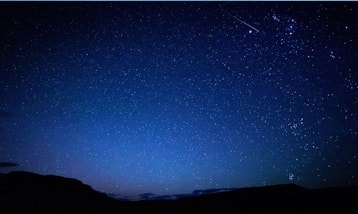
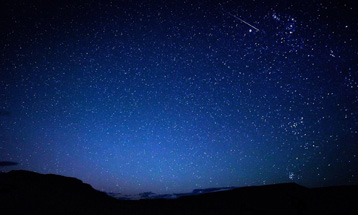
sistemato il cielo (pioggia inclusa). aggiunti effetti atmosferici. fix vari su pulsanti vari. avanzamento output importante.

diff --git a/client_v2/src/js/modules/client.js b/client_v2/src/js/modules/client.js
@@ -139,6 +139,40 @@ export default class TgGui {
         this.scrollbar = {
             output: null
         };
+
+        this.equip_positions_by_name = {
+
+            "r_finger":"Al dito destro",
+            "l_finger":"Al dito sinistro",
+            "neck":"Al collo",
+            "body":"Sul corpo",
+            "head":"In testa",
+            "legs":"Sulle gambe",
+            "feet":"Ai piedi",
+            "hands":"Sulle mani",
+            "arms":"Sulle braccia",
+            "around":"Attorno al corpo",
+            "waist":"In vita",
+            "r_wrist":"Al polso destro",
+            "l_wrist":"Al polso sinistro",
+            "r_hand":"Nella mano destra",
+            "l_hand":"Nella mano sinistra",
+            "back":"Sulla schiena",
+            "r_ear":"All'orecchio destro",
+            "l_ear":"All'orecchio sinistro",
+            "eyes":"Sugli occhi",
+            "sheath":"Nel fodero",
+            "belt":"Alla cintura",
+            "over":"A tracolla",
+            "r_shoulder":"Sulla spalla destra",
+            "l_shoulder":"Sulla spalla sinistra",
+            "tied":"Imprigionato"
+        };
+        
+        this.equip_positions_by_num = [''].concat($.map(this.equip_positions_by_name, function(v) {
+            return v;
+        }));
+
         
 
         /* Debug */
@@ -664,7 +698,7 @@ export default class TgGui {
         msg = msg.replace(/&!page\{[\s\S]*?\}!/gm, function (p) {
             let page_parse = $.parseJSON(p.slice(6, -1)); /* .replace(/\n/gm,' ') */
             // return addFrameStyle(addBannerStyle(p.title) + '<div class="text">' + p.text.replace(/\n/gm, '<br>') + '</div>');
-            return renderGenericPage(page_parse)
+            return _.renderGenericPage(page_parse)
         });
 
         // Generic table (title, head, data)
@@ -884,7 +918,8 @@ export default class TgGui {
         } else {
             //TODO: Page parse generic 
             console.log('!page todo');
-        }
+        };
+        return '';
     }
 
     renderMob(icon, condprc, count, mrn, desc, addclass) {
@@ -1042,7 +1077,7 @@ export default class TgGui {
     }
 
     cleanImageContainer(cont) {
-        cont.slideUp('fast');
+        $(cont).slideUp('fast');
     }
 
     /* *****************************************************************************
@@ -1250,14 +1285,14 @@ export default class TgGui {
                 res += '<div class="room"><div class="lts"></div>'+info.title+'<div class="rts"></div></div>';
             }
             let title = 'div class="tg-extra-title">' + info.title + '</div>';
-            if(wtab == ctab) {
+            /*  if(wtab == ctab) {
                 $('extratitle').text(title);
-            }
+            }*/
         }
 
         /* Set Image */
         if(info.image) {
-            _.showImage($('#detailimage', cont), info.image);
+            _.showImage($('#detailimage'), info.image);
         }
         else {
             _.cleanImageContainer('.tg-detailimage');
@@ -1286,18 +1321,22 @@ export default class TgGui {
         if (info.action) {
             textarea += '<div class="details-inner">' + info.action + '</div>';
         }
+        /* Print Title/Name */
+        if(info.title) {
+            textarea += '<div class="out-title">' + info.title + '</div>'
+        }
         /* Print description */
         if (info.desc) {
             textarea += '<div class="out-description">';
             if (info.desc.base) {
                 if (type == 'room') {
                     _.last_room_desc = _.formatText(info.desc.base, 'out-descbase');
-                    textarea += _.formatText(info.desc.base, 'out-descbase');
                 }
-            } else if (info.desc.repeatlast && _.last_room_desc) {
+                textarea += _.formatText(info.desc.base, 'out-descbase');
+            } 
+            else if (info.desc.repeatlast && _.last_room_desc) {
                 textarea += _.last_room_desc;
             }
-            textarea += '</div>';
 
             if (info.desc.details) {
                 textarea += _.formatText(info.desc.details, 'out-charsubdetail tg-yellow d-block');
@@ -1306,6 +1345,9 @@ export default class TgGui {
             if (info.desc.equip) {
                 textarea += _.formatText(info.desc.equip, 'out-charsubdetail tg-green d-block');
             }
+
+            textarea += '</div>';
+
         }
         if (_.client_options.secondoutput) {
             /* Print Persons List */
@@ -1413,8 +1455,8 @@ export default class TgGui {
                 /* print header triggerable element */
                 txt += '<div class="element'+ grp_attribute +'" ' + data_mrn + '>';
                     // mob/obj icon
-                    txt += _.renderIcon(l.icon, l.mrn ? l.mrn[0] : null, cont_type, l.cntnum, null, 'interact '+type);
-                    txt += '<div class="desc">' + _.decoratedDescription(l.condprc, l.mvprc, l.wgt, l.sz ? l.sz : 1, (l.eq ? '<b>' + equip_positions_by_num[l.eq[0]] + '</b>: ' : '') + l.desc) +'</div>';
+                    txt += _.renderIcon(l.icon, l.mrn ? l.mrn[0] : null, cont_type, l.cntnum, null, 'interact ' + type);
+                    txt += '<div class="desc">' + _.decoratedDescription(l.condprc, l.mvprc, l.wgt, l.sz ? l.sz : 1, (l.eq ? '<b>' + _.equip_positions_by_num[l.eq[0]] + '</b>: ' : '') + l.desc) +'</div>';
                 txt += '</div>';
 
                 /* Start Collapsable Obj/Mob Container */
@@ -1722,10 +1764,10 @@ export default class TgGui {
         let _ = this;
         /* Extra Detail Display */
         if(_.client_options.secondoutput) {
-            $('.tg-outputextra-wrap').show();
+            $('.tg-outputextra-wrap').addClass('d-flex');
         }
         else {
-            $('.tg-outputextra-wrap').hide();
+            $('.tg-outputextra-wrap').removeClass('d-flex');
         }
         
         /* Dashboard Expand/collapse status */
@@ -1897,7 +1939,7 @@ export default class TgGui {
         this.addScrollBar(extraOutputID);
 
         /* Image Event */
-        $('.detailsimage')
+        $('#detailimage')
             .on('error', function(){
                 $(this).closest('.tg-detailsimage').slideUp('fast');
             })
@@ -2072,7 +2114,7 @@ export default class TgGui {
 
         /* Toggle Extra Output Window */
         $('#triggerToggleExtraOutput').on('click', function(){
-            $('.tg-outputextra-wrap').toggle(0, function(){
+            $('.tg-outputextra-wrap').toggleClass('d-flex', function(){
                 _.scrollPanelTo('#output', '#scrollableOutput', true);
             });
             _.client_options.secondoutput =  _.client_options.secondoutput ? false : true;
@@ -2217,7 +2259,7 @@ export default class TgGui {
 
     addScrollBar(container) {
         this.scrollbar.output = new PerfectScrollbar(container, {
-            wheelPropagation: 1,
+            wheelPropagation: 2,
         });
     }
 

diff --git a/client_v2/src/scss/_sky.scss b/client_v2/src/scss/_sky.scss
@@ -2,7 +2,7 @@
 $skyPath : $imgPath + '/sky/'; 
 
 $lightining_color1: transparent;
-$lightining_color2: rgba(189, 189, 189, 0.4);
+$lightining_color2: rgba(255, 255, 255, 0.6);
 
 @keyframes lightining {
     0% {
@@ -45,7 +45,7 @@ $lightining_color2: rgba(189, 189, 189, 0.4);
         height: 100%;
         width: 100%;
         box-shadow: inset 0 0 20px 0px black;
-        background-size: contain;
+        background-size: cover;
         background-position: top left;
 
         &:after {
@@ -137,7 +137,7 @@ $lightining_color2: rgba(189, 189, 189, 0.4);
         }
         /* giorno con pioggia e fulmini */
         &[data-sky="d"] {
-            background-image: url( $skyPath + 'giorno-pioggia.jpg');
+            background-image: url( $skyPath + 'giorno-pioggia-fulmini.jpg');
         }
         /* giorno e pioggia */
         &[data-sky="e"] {
@@ -161,7 +161,7 @@ $lightining_color2: rgba(189, 189, 189, 0.4);
         }
         /* Notte + pioggia + fulmini */
         &[data-sky="p"] {
-            background-image: url( $skyPath + 'notte-nuvolosa.jpg');      
+            background-image: url( $skyPath + 'notte-nuvolosa-fulmini.jpg');      
         }
         /* Giorno nuvoloso  */
         &[data-sky="q"] {
@@ -169,11 +169,11 @@ $lightining_color2: rgba(189, 189, 189, 0.4);
         }
         /* Notte + Pioggia */
         &[data-sky="r"] {
-            background-image: url( $skyPath + 'notte-nuvolosa.jpg');
+            background-image: url( $skyPath + 'notte-pioggia.jpg');
         }
         /* Notte + Pioggia + Fulmini */
         &[data-sky="s"] {
-            background-image: url( $skyPath + 'notte-nuvolosa.jpg');
+            background-image: url( $skyPath + 'notte-nuvolosa-fulmini.jpg');
         }
         /* Giorno + Neve */
         &[data-sky="t"] {
@@ -203,6 +203,32 @@ $lightining_color2: rgba(189, 189, 189, 0.4);
         position: absolute;
 
         #sky {
+            /* Notte + luna 0/4 */
+            &[data-sky="0"]:after {
+                top: 52px;
+                left: -15px;
+            }
+            /* Notte + luna 1/4 */
+            &[data-sky="1"]:after {
+                top: 12px;
+                left: 20px;
+            }
+            /* Notte + luna 2/4 */
+            &[data-sky="2"]:after {
+                top: -18px;
+                left: 136px;
+                transform: translateX(-50%);
+            }
+            /* Notte + luna 3/4 */
+            &[data-sky="3"]:after {
+                top: 12px;
+                right: 20px;
+            }
+            /* Notte + luna 4/4 */
+            &[data-sky="4"]:after {
+                top: 52px;
+                right: -15px;
+            }
         }
     }
 }

diff --git a/client_v2/src/scss/_output.scss b/client_v2/src/scss/_output.scss
@@ -11,6 +11,7 @@
         flex: auto;
         padding-top: 20px;
         margin: 6px 0;
+        display: flex;
     }
     .tg-output-options {
         height: 30px;
@@ -68,9 +69,18 @@
         padding-bottom: .2em;
     }
 
+    .out-title {
+        font-size: 20px;
+        color: #ac4c55;
+        font-family: kingthinks;
+    }
+
     .out-description {
         display: block;
         padding-bottom: 1.5em;
+        display: flex;
+        flex-direction: column;
+
     }
 
     /* Description base*/
@@ -135,6 +145,9 @@
         display: inline-block !important;
         zoom: .8;
         vertical-align: middle;
+    }
+    > .iconimg {
+        float:left;
     }
        
     .tg-title {

diff --git a/client/js/thegateway-client.js b/client/js/thegateway-client.js
@@ -3071,6 +3071,7 @@ function renderDetailsList(cont_type, cont_num, cont, type, style)
 					
 				txt += '>'
 				for(var m=0; m < l.mrn.length; m++)
+					txt += '<tr><td>'+(m == 0 ? '<div class="collicon"></div>':'')+'</td><td><div>'+renderIcon(l.icon, l.mrn[m], cont_type, l.cntnum, null, 'interact '+type)+'</div></td><td>'+decoratedDescription(l.condprc, l.mvprc, l.wgt, 1, l.desc)+'</td></tr>';
 				if (l.sz && l.sz > l.mrn.length)
 					txt += '<tr><td></td><td><div>'+renderIcon(l.icon, null, cont_type, l.cntnum, null, /* 'interact '+type */ null)+'</div></td><td>'+decoratedDescription(l.condprc, l.mvprc, l.wgt, l.sz - l.mrn.length, l.desc)+'</td></tr>';				 
 				txt += '</tbody>';

diff --git a/client_v2/webpack.config.js b/client_v2/webpack.config.js
@@ -113,11 +113,11 @@ module.exports = function (prop) {
                 filename: '../index.html' //relative to root of the application
             }),
 
-            new BundleAnalyzerPlugin({
-                // analyzerMode: env == 'dev' ? 'server' : 'disabled',
-                analyzerPort: 9998,
-                analyzerHost: '192.168.10.10'
-            }),
+//            new BundleAnalyzerPlugin({
+//                // analyzerMode: env == 'dev' ? 'server' : 'disabled',
+//                analyzerPort: 9998,
+//                analyzerHost: '192.168.10.10'
+//            }),
         ]
     }
 
